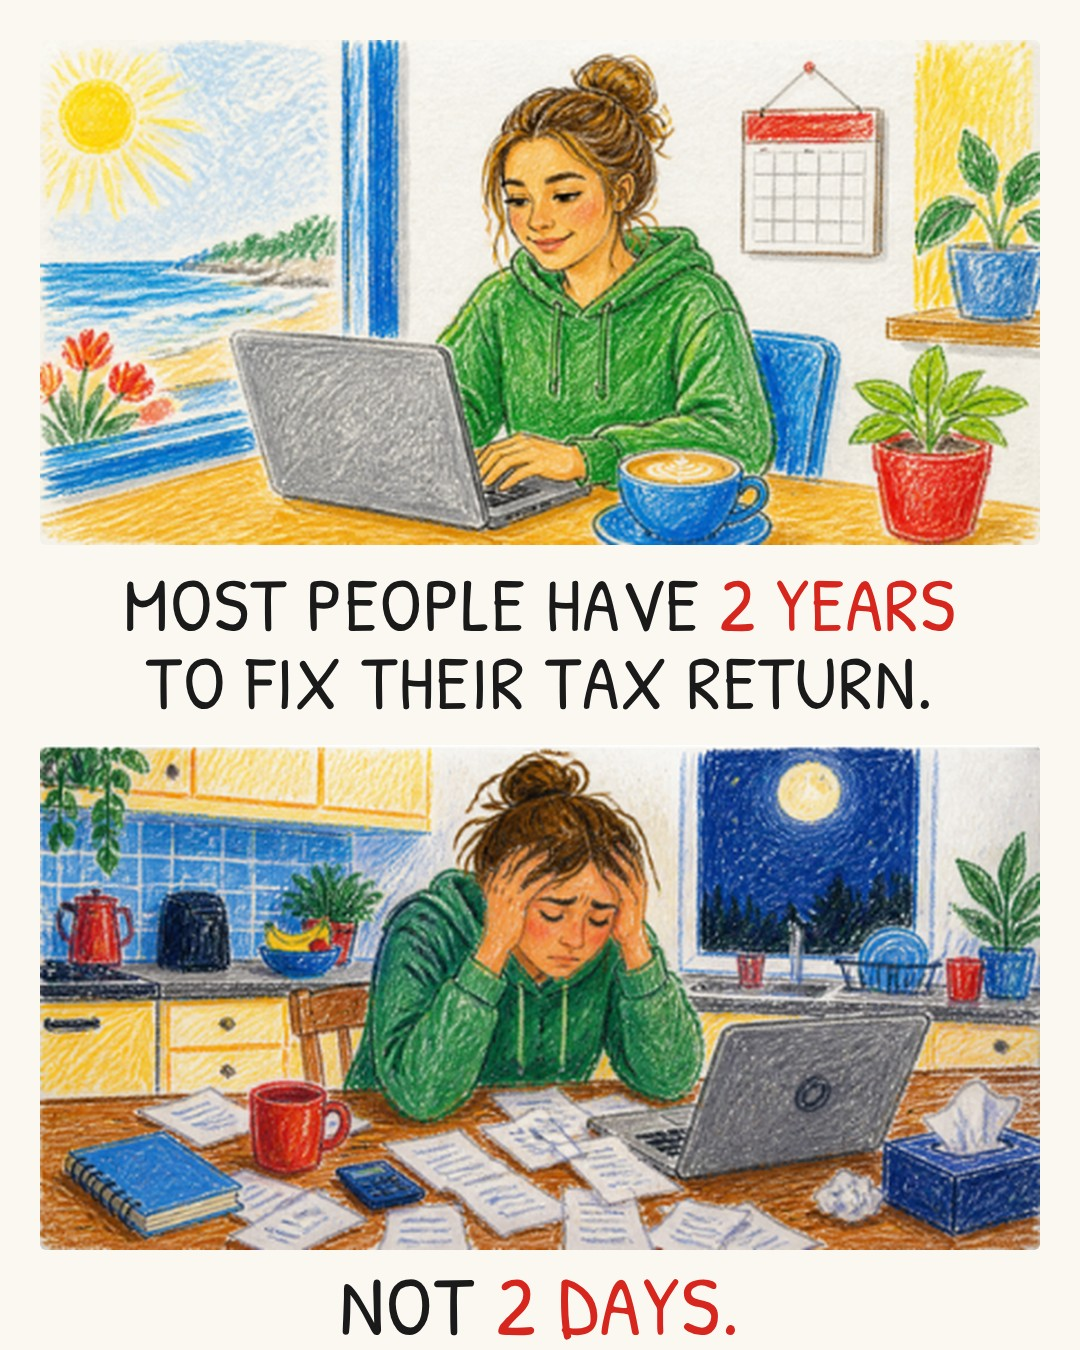
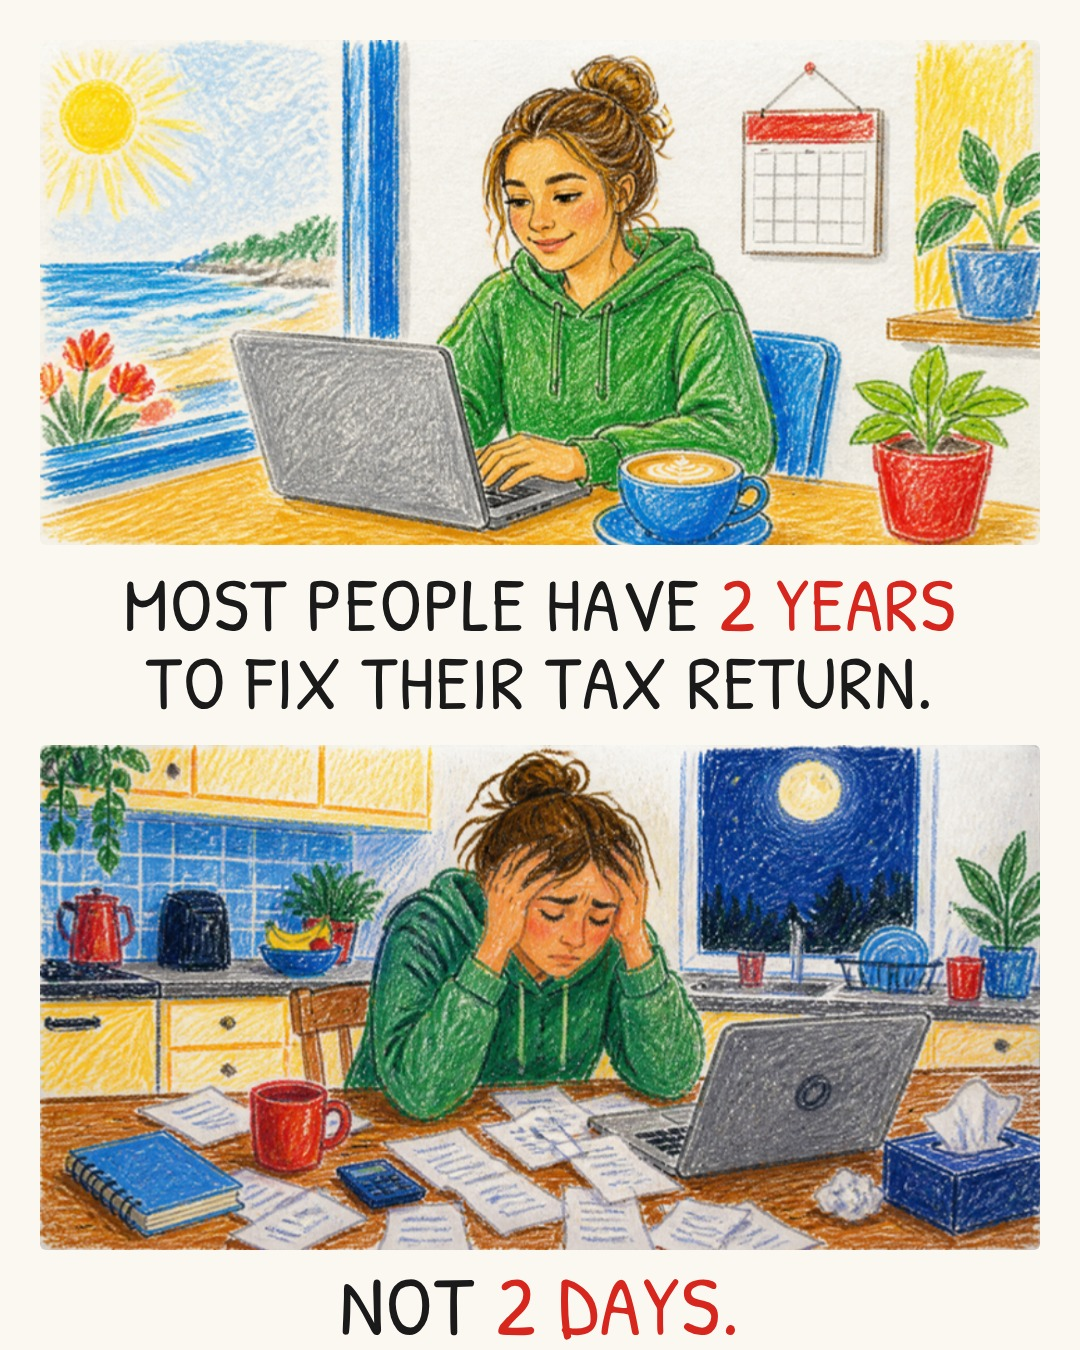
Crayon two-panel kit (Canva art + exact text); Canva/Unsplash downloads unblocked
Claude-Session: https://claude.ai/code/session_0136r5k6F8uXqcgNCX3HaLQk

diff --git a/brand/crayon.py b/brand/crayon.py
@@ -1,0 +1,45 @@
+"""Crayon two-panel slides (the "X. Not Y." motivational format), 1080x1350.
+
+Art: Canva generate-image (crayon on paper, ask for NO text) → insert both panels on the working canvas
+design DAHZ2AHQfVk with edit-design → export-design PNG → download (export-download.canva.com is allowed)
+→ crop each panel to a file. All words are added here so they're exact and checkable.
+
+    from crayon import two_panel, render
+    render([two_panel("top.png", "MOST PEOPLE HAVE <r>2 YEARS</r> TO FIX THEIR TAX RETURN.", "bot.png", "NOT <r>2 DAYS.</r>")], __file__)
+<r>…</r> marks the red words. Every stat must be verified (ATO/ABS) and listed in figures_checked.
+"""
+import asyncio, io, os
+from playwright.async_api import async_playwright
+HERE = os.path.dirname(os.path.abspath(__file__))
+CSS = f"""@font-face{{font-family:H;src:url('file://{HERE}/fonts/patrick-hand-latin-400-normal.woff2')}}
+body{{margin:0}} .w{{width:1080px;height:1350px;background:#FBF8F2;position:relative;overflow:hidden;font-family:H}}
+.p{{position:absolute;left:40px;width:1000px;height:505px;object-fit:cover;border-radius:6px}}
+.t{{position:absolute;left:40px;right:40px;text-align:center;line-height:1.02;color:#1A1A1A;letter-spacing:.02em}}
+r{{color:#D7261E}} .n{{position:absolute;right:46px;top:52px;background:rgba(0,0,0,.55);color:#fff;font-family:sans-serif;font-size:22px;padding:6px 14px;border-radius:20px}}"""
+
+
+def two_panel(top_img, top_text, bot_img, bot_text, n=None, of=None, top_size=76, bot_size=84):
+    def src(p): return "file://" + os.path.abspath(p)
+    num = f'<div class="n">{n}/{of}</div>' if n else ""
+    return f"""<!doctype html><html><head><meta charset="utf-8"><style>{CSS}</style></head><body><div class="w">
+<img class="p" style="top:40px" src="{src(top_img)}">{num}
+<div class="t" style="top:565px;font-size:{top_size}px">{top_text}</div>
+<img class="p" style="top:745px" src="{src(bot_img)}">
+<div class="t" style="top:1262px;font-size:{bot_size}px">{bot_text}</div></div></body></html>"""
+
+
+def render(slides, make_file, quality=92):
+    from PIL import Image
+    folder = os.path.dirname(os.path.abspath(make_file))
+    async def go():
+        async with async_playwright() as p:
+            b = await p.chromium.launch(); pg = await b.new_page(viewport={"width": 1080, "height": 1350})
+            for i, html in enumerate(slides, 1):
+                f = os.path.join(folder, "_crayon.html"); open(f, "w").write(html)
+                await pg.goto("file://" + f); await pg.evaluate("document.fonts.ready")
+                png = await pg.screenshot(type="png")
+                Image.open(io.BytesIO(png)).convert("RGB").save(os.path.join(folder, f"{i}.jpg"), "JPEG", quality=quality, optimize=True)
+                os.remove(f)
+            await b.close()
+    asyncio.run(go())
+    print(f"rendered {len(slides)} crayon slides -> {folder}")

diff --git a/CLAUDE.md b/CLAUDE.md
@@ -51,6 +51,7 @@ Lead with what people actually want: **how to legally pay less tax and keep more
   - **Visual variety:** multi-colour covers with a bold focal image (tier board, money stack, red/green arrows, a big number on a contrasting block, Penny/Docket reacting), not a plain one-colour text slide. Keep the brand palette as accents, but let covers break the template. Every cover should look different from the last three on the grid.
   - **Compliance still holds:** the provocation must resolve to something lawful and general. "Feels illegal / should be illegal (but it's legal)" is OK as a hook; never "loophole", "hack", "avoid", "the ATO doesn't want you to know". Each ranked move still gets its catch and income year.
   - Benchmark data: `scripts/study.py` (runs with the Saturday engage job, or push `.github/engage-trigger`) saves the benchmark creators' recent posts ranked by likes to `stats/benchmarks.json`. Study what hooks and formats win; never copy a post, caption or design.
+  - **Illustrated art:** Canva `generate-image` (crayon/hand-drawn style, always "no text") for panels and covers; Unsplash for real photos. Crayon two-panel "X. Not Y." posts via `brand/crayon.py` (pipeline in its docstring; mock-up `refs/mock-crayon-two-panel.jpg`). Use as about 1 post in 5, with a money/tax twist and verified stats; keep characters original and consistent.
   - Daniel is sending example posts he likes. Treat them as style references for hooks and layout (keep in `refs/` if saved), not content to copy.
 - Keep the practical series (occupation claims, first-year ABN, BAS dates). They earn saves and follows, but the lead pillar carries reach.
 

diff --git a/notes.md b/notes.md
@@ -5,7 +5,7 @@
 - Daniel connected Canva, Unsplash and vidIQ. He likes Karlton Dennis's crayon two-panel motivational carousel ("The average millionaire is 57. Not 21."; 10.6K likes, 3.5K shares).
 - Canva `generate-image` makes good crayon illustrations (ask for "no text"; add all words ourselves so they're exact). Mock-up: `refs/mock-crayon-two-panel.jpg` ("Most people have 2 years to fix their tax return. Not 2 days.").
 - Pipeline: generate-image → place on the working canvas design `DAHZ2AHQfVk` (edit-design insert_fill) → export-design PNG → download → compose text in HTML.
-- **Blocked:** this environment can't download from `export-download.canva.com` or `images.unsplash.com` (egress proxy 403). Daniel needs to allow those domains (claude.ai web → Settings → Capabilities). Until then the crayon style can't be automated.
+- Daniel allowed `export-download.canva.com` and `images.unsplash.com` (3 Nov): Canva exports and Unsplash photos now download fine. Reusable kit: `brand/crayon.py` (`two_panel`, `render`).
 - Use the style as ~1 in 5 posts, money/tax twist, every stat verified (ABS/ATO), never his stats or characters.
 
 ## 3 Nov 2026: content looks too plain (Daniel)
